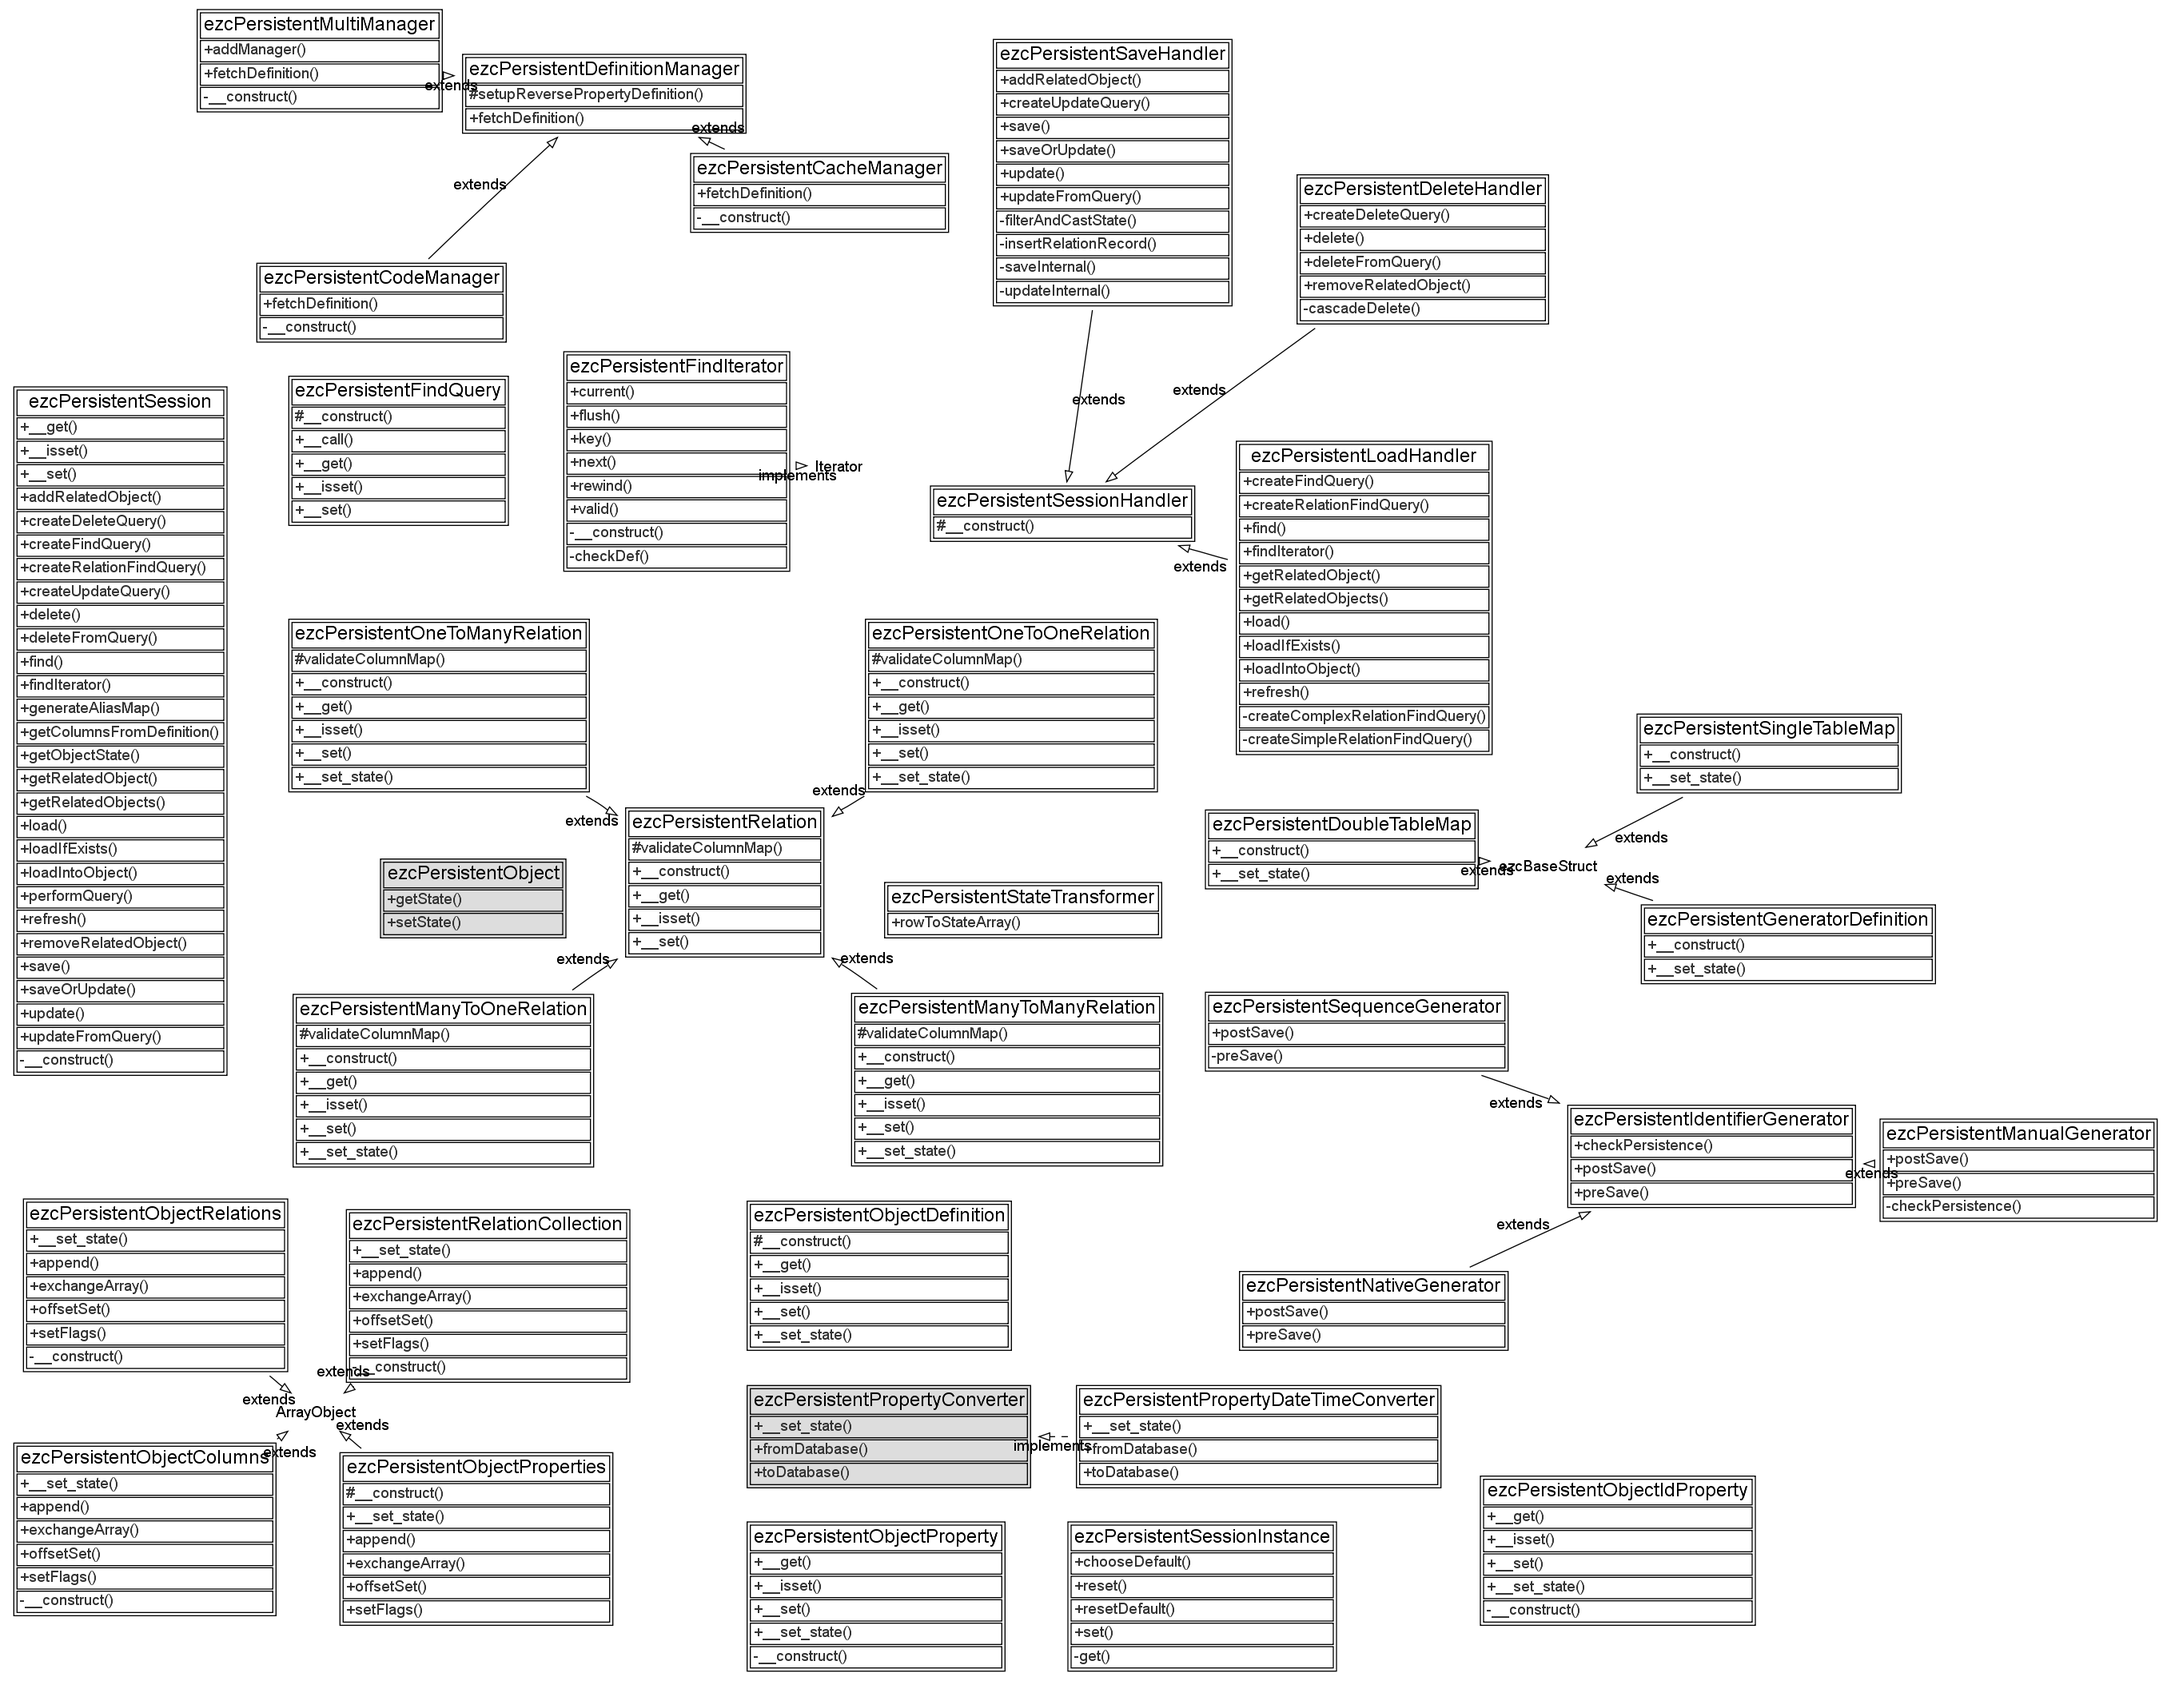
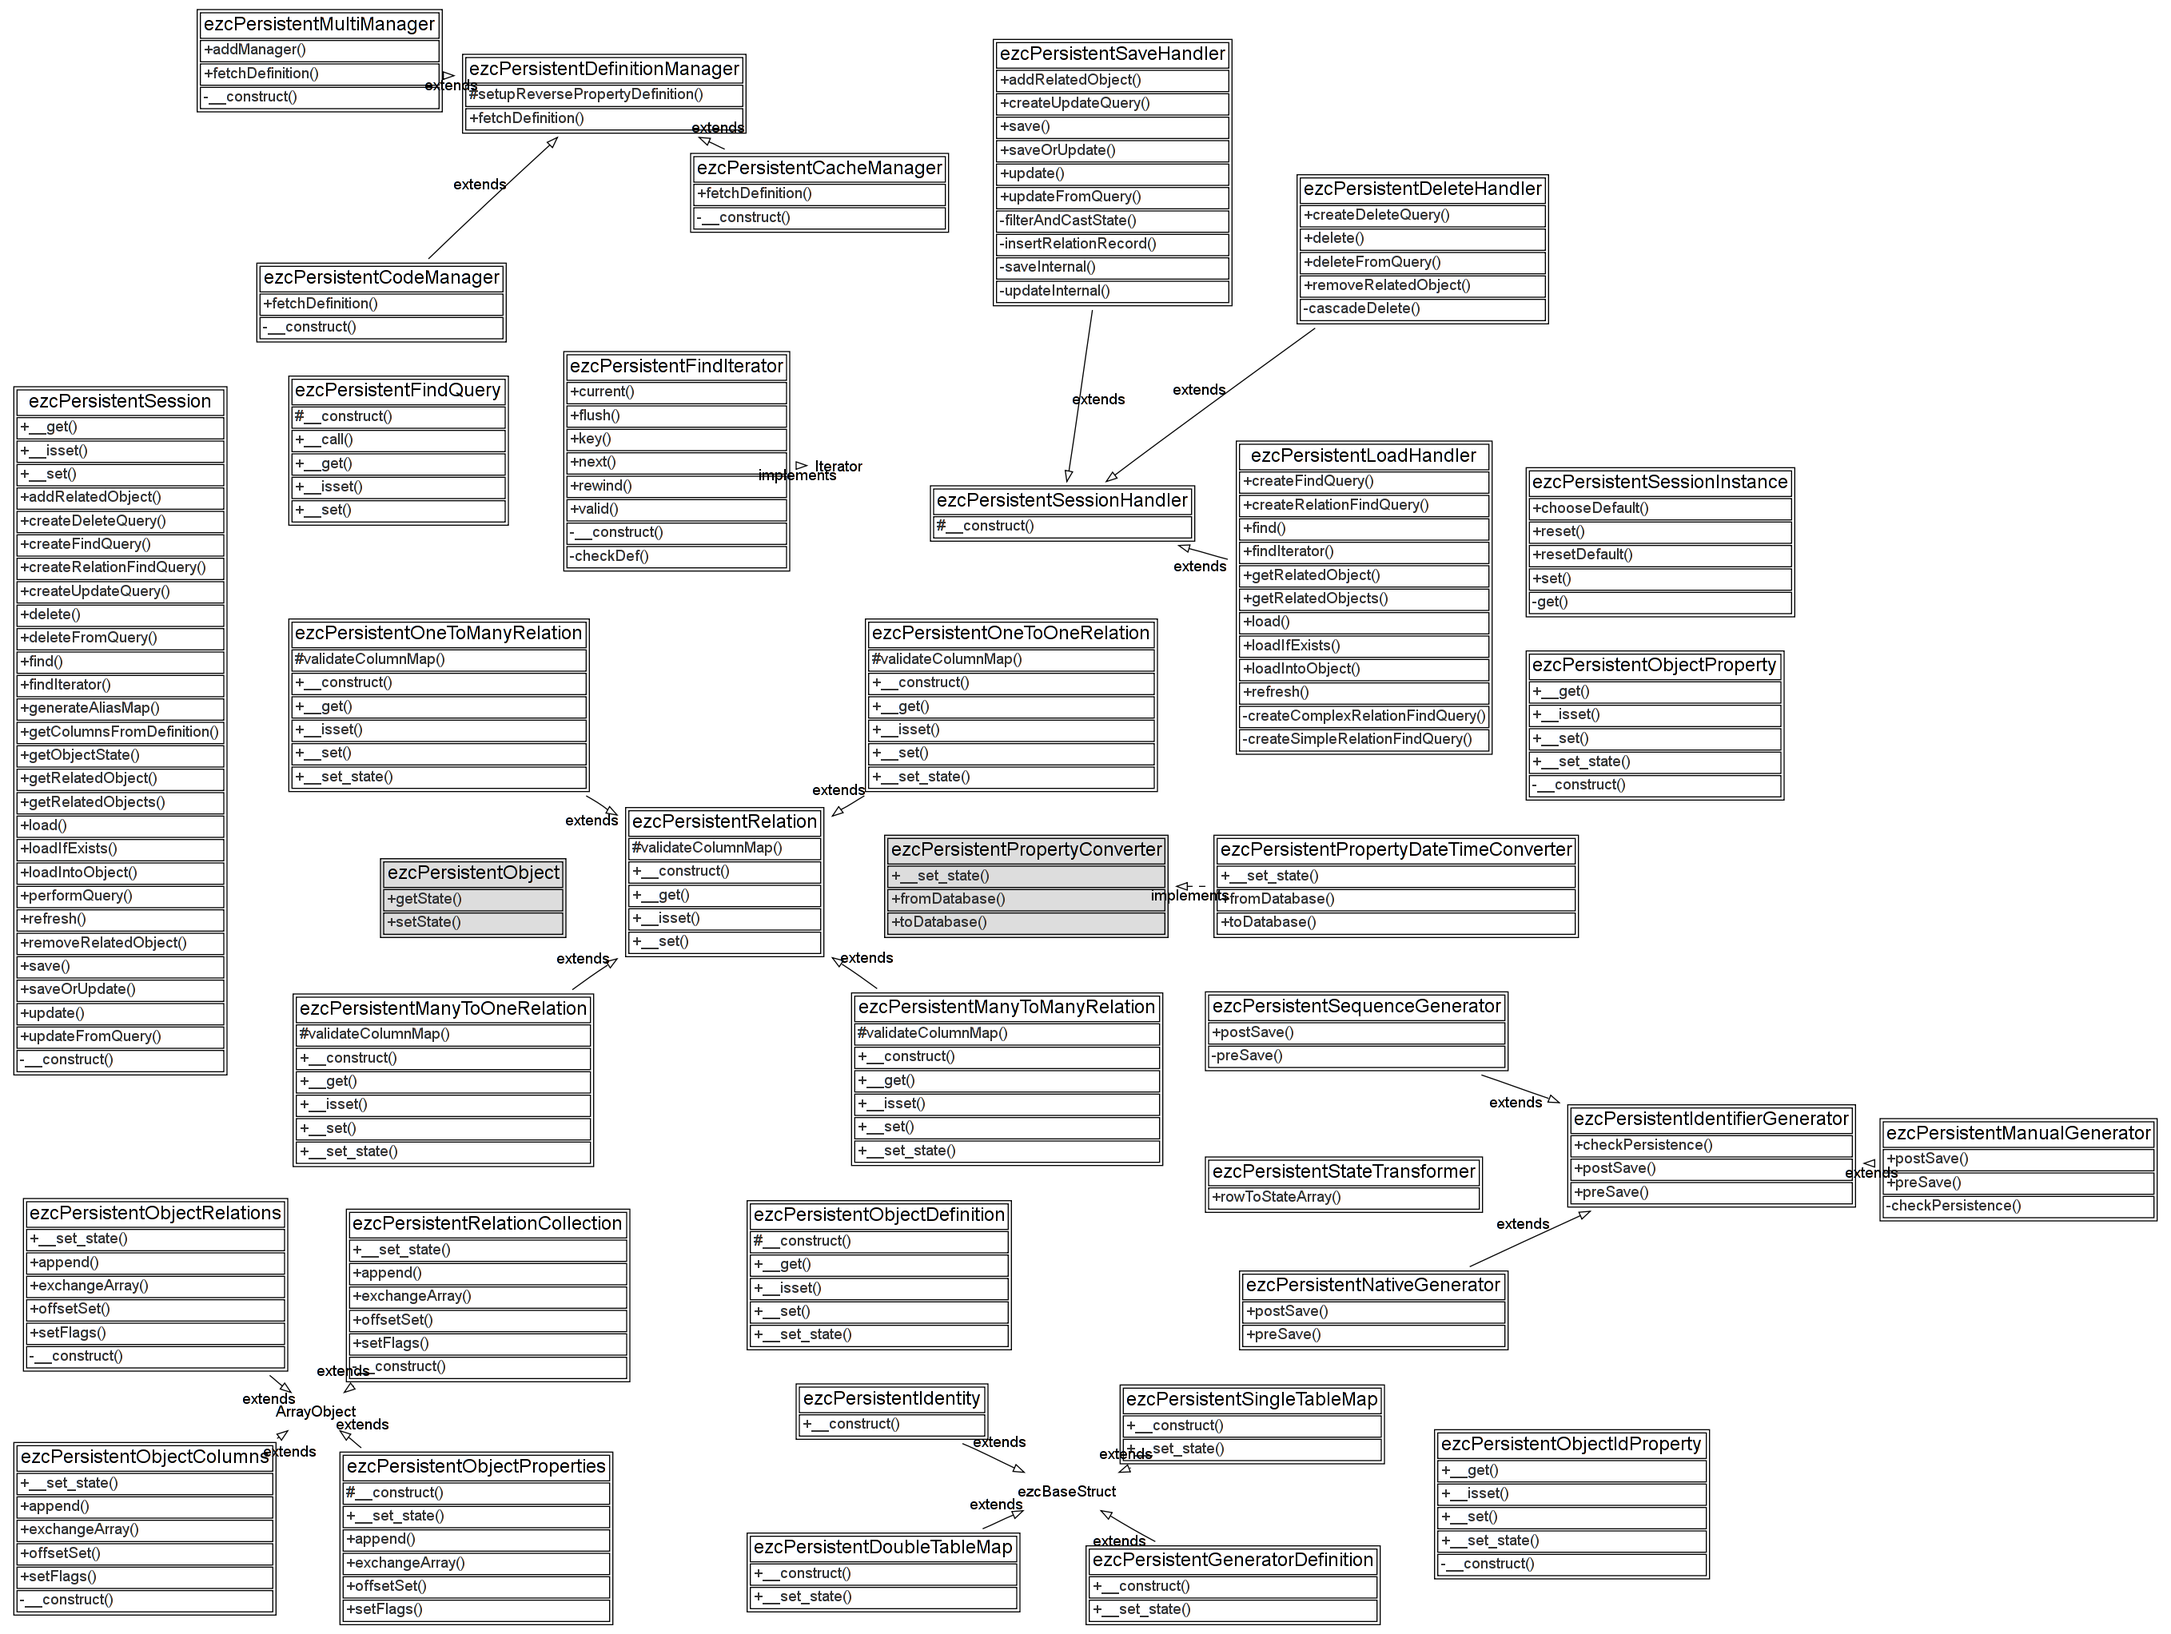
- Added ezcPersistentIdentity struct.

Changed region(s): [[0.0, 0.0, 1.0, 1.0]]

diff --git a/src/structs/identity.php b/src/structs/identity.php
@@ -1,0 +1,48 @@
+<?php
+/**
+ * File containing the ezcPersistentIdentity struct.
+ *
+ * @package PersistentObject
+ * @version //autogentag//
+ * @copyright Copyright (C) 2005-2009 eZ systems as. All rights reserved.
+ * @license http://ez.no/licenses/new_bsd New BSD License
+ */
+/**
+ * Struct representing an object identity in ezcPersistentIdentityMap.
+ * 
+ * @package PersistentObject
+ * @version //autogen//
+ */
+class ezcPersistentIdentity extends ezcBaseStruct
+{
+    /**
+     * The object.
+     * 
+     * @var object
+     */
+    public $object;
+
+    /**
+     * Related objects of $object. 
+     * 
+     * @var array(string=>array(object))
+     */
+    public $relatedObjects;
+
+    /**
+     * Creates a new object identity.
+     *
+     * Creates an identity struct for $object with references to its
+     * $relatedObjects.
+     * 
+     * @param object $object 
+     * @param array $relatedObjects 
+     */
+    public function __construct( $object = null, array $relatedObjects = null )
+    {
+        $this->object         = $object;
+        $this->relatedObjects = $relatedObjects;
+    }
+}
+
+?>

diff --git a/src/persistent_autoload.php b/src/persistent_autoload.php
@@ -36,6 +36,7 @@ return array(
     'ezcPersistentFindIterator'                           => 'PersistentObject/find_iterator.php',
     'ezcPersistentFindQuery'                              => 'PersistentObject/queries/find_query.php',
     'ezcPersistentGeneratorDefinition'                    => 'PersistentObject/structs/generator_definition.php',
+    'ezcPersistentIdentity'                               => 'PersistentObject/structs/identity.php',
     'ezcPersistentLoadHandler'                            => 'PersistentObject/handlers/load_handler.php',
     'ezcPersistentManualGenerator'                        => 'PersistentObject/generators/manual_generator.php',
     'ezcPersistentManyToManyRelation'                     => 'PersistentObject/relations/many_to_many.php',
